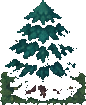
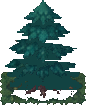
Fix see-through dark-forest pine (z5)
The dark forest pine was only 37% opaque — a sparse, lacy silhouette that
let the ground (and any background) show straight through the foliage. Filled
its internal gaps with a dark backing green (per-row span fill on the foliage,
trunk/base preserved), keeping the lighter foliage detail on top. Now reads as
a solid pine. Bump ART_V 17.

https://claude.ai/code/session_01F9cFHYjHomS4jXu2F4ajBs

diff --git a/index.html b/index.html
@@ -5,7 +5,7 @@
   <meta name="viewport" content="width=device-width, initial-scale=1.0, maximum-scale=1.0, user-scalable=no">
   <title>Lukeymon</title>
   <link href="https://fonts.googleapis.com/css2?family=Press+Start+2P&display=swap" rel="stylesheet">
-  <link rel="stylesheet" href="style.css?v=3.12.1">
+  <link rel="stylesheet" href="style.css?v=3.12.2">
 </head>
 <body>
 
@@ -29,7 +29,7 @@
           <p class="title-tagline">Catch ʼem with kindness!</p>
           <div class="title-scene">
             <span class="title-ground"></span>
-            <img class="title-hero" src="art/player/side.png?v=3.12.1" alt="">
+            <img class="title-hero" src="art/player/side.png?v=3.12.2" alt="">
             <img class="title-pika" src="sprites/025.png" alt="">
             <span class="title-spark sp1">⚡</span>
             <span class="title-spark sp2">⚡</span>
@@ -422,12 +422,12 @@
   </div><!-- /device -->
   <div id="version-bar">
     <button id="hard-refresh" title="Hard refresh — force reload the latest version">⟳</button>
-    <span id="version">v3.12.1</span>
+    <span id="version">v3.12.2</span>
   </div>
 
-  <script src="world.js?v=3.12.1"></script>
-  <script src="data.js?v=3.12.1"></script>
-  <script src="game.js?v=3.12.1"></script>
-  <script src="net.js?v=3.12.1"></script>
+  <script src="world.js?v=3.12.2"></script>
+  <script src="data.js?v=3.12.2"></script>
+  <script src="game.js?v=3.12.2"></script>
+  <script src="net.js?v=3.12.2"></script>
 </body>
 </html>

diff --git a/game.js b/game.js
@@ -856,7 +856,7 @@ function buildTileCache() {
 }
 
 // ── Sliced biome art (per-zone tiles, trees, shop building) ──────────
-const ART_V = '16';   // bump to bust the image cache when art files change
+const ART_V = '17';   // bump to bust the image cache when art files change
 const TILE_ART = {
   0: { 0: 3, 1: 3, 3: 3 }, 1: { 1: 3, 3: 3, 4: 3 }, 2: { 1: 3, 5: 3 },
   3: { 0: 3, 1: 3, 3: 3 }, 4: { 0: 3, 1: 3, 7: 3 }, 5: { 0: 3, 1: 3, 11: 1 },
